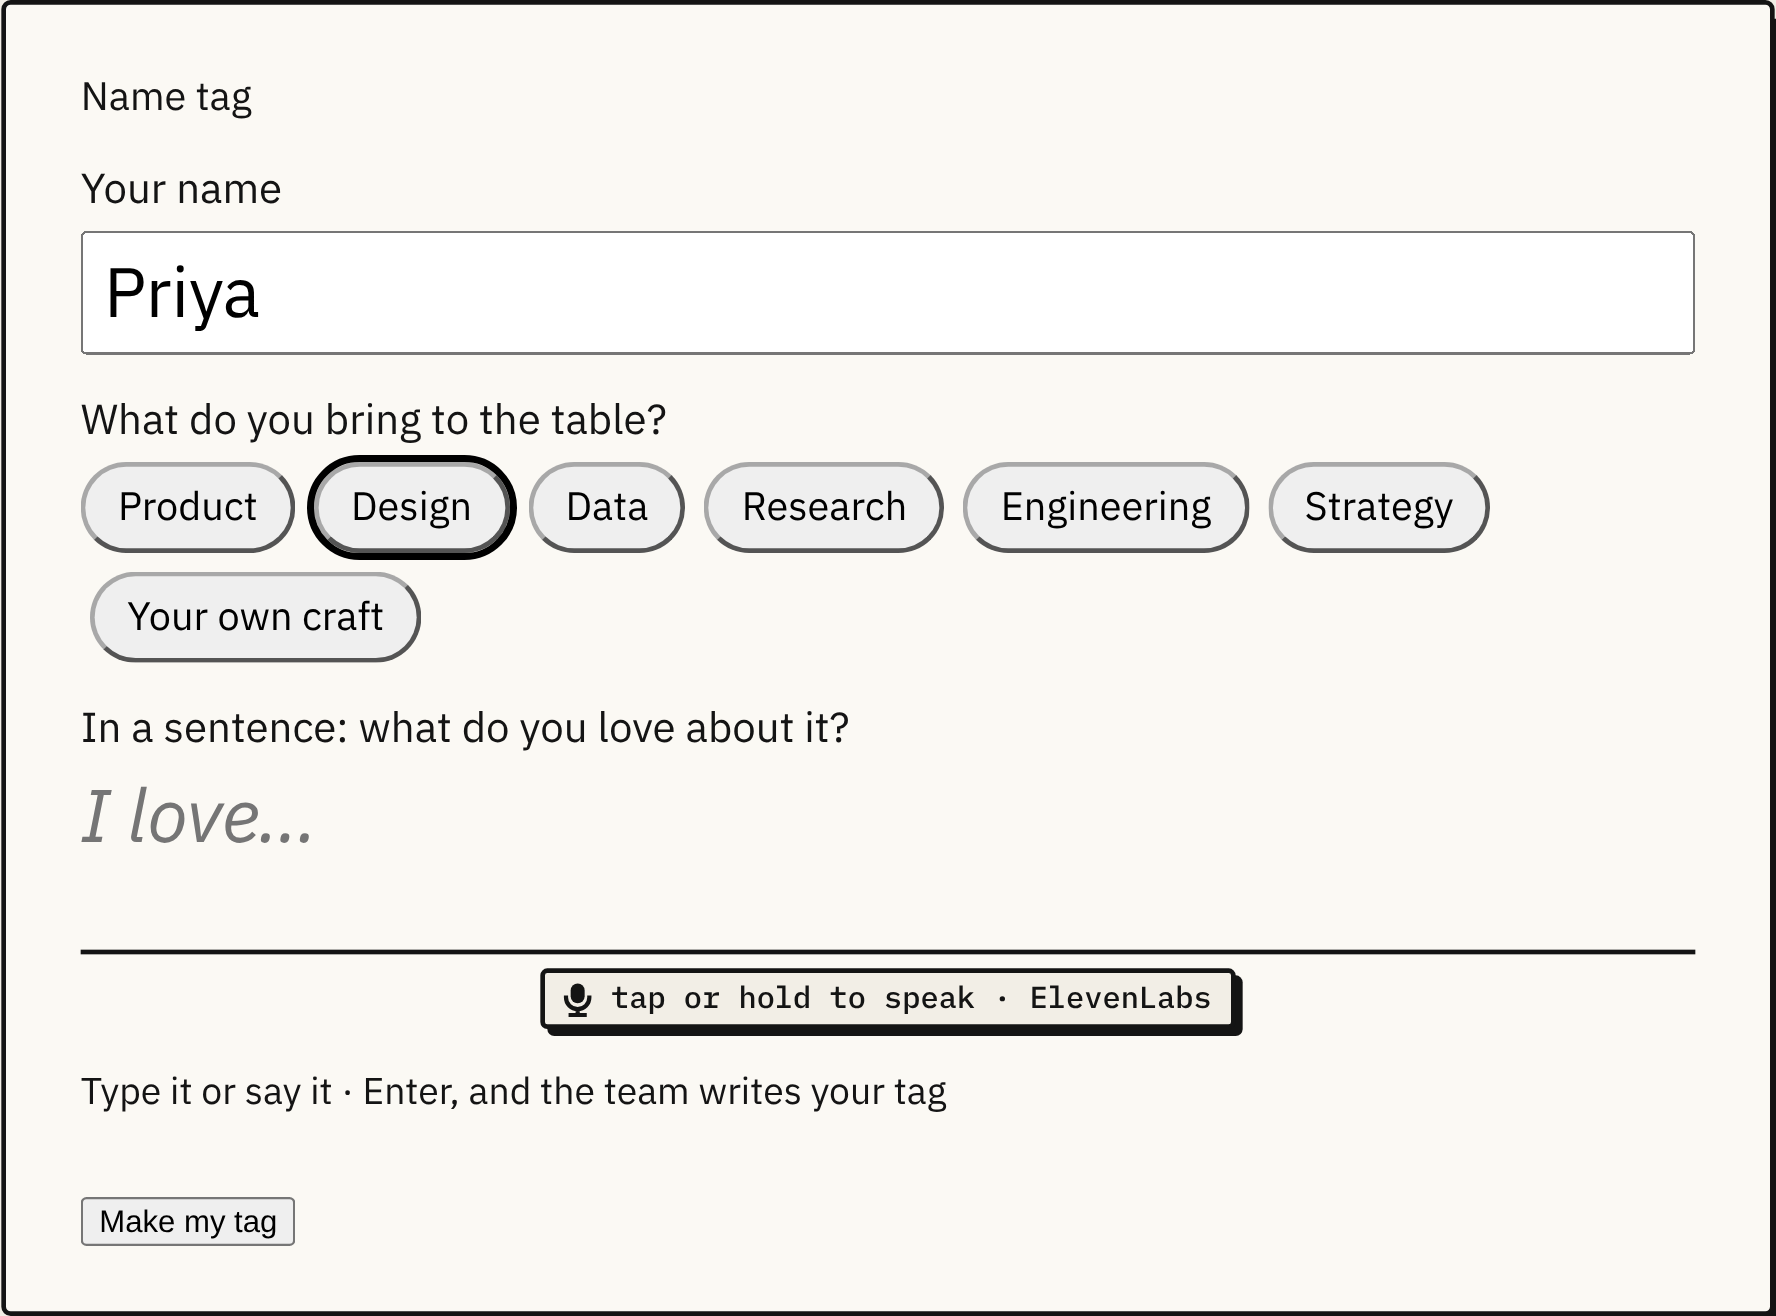
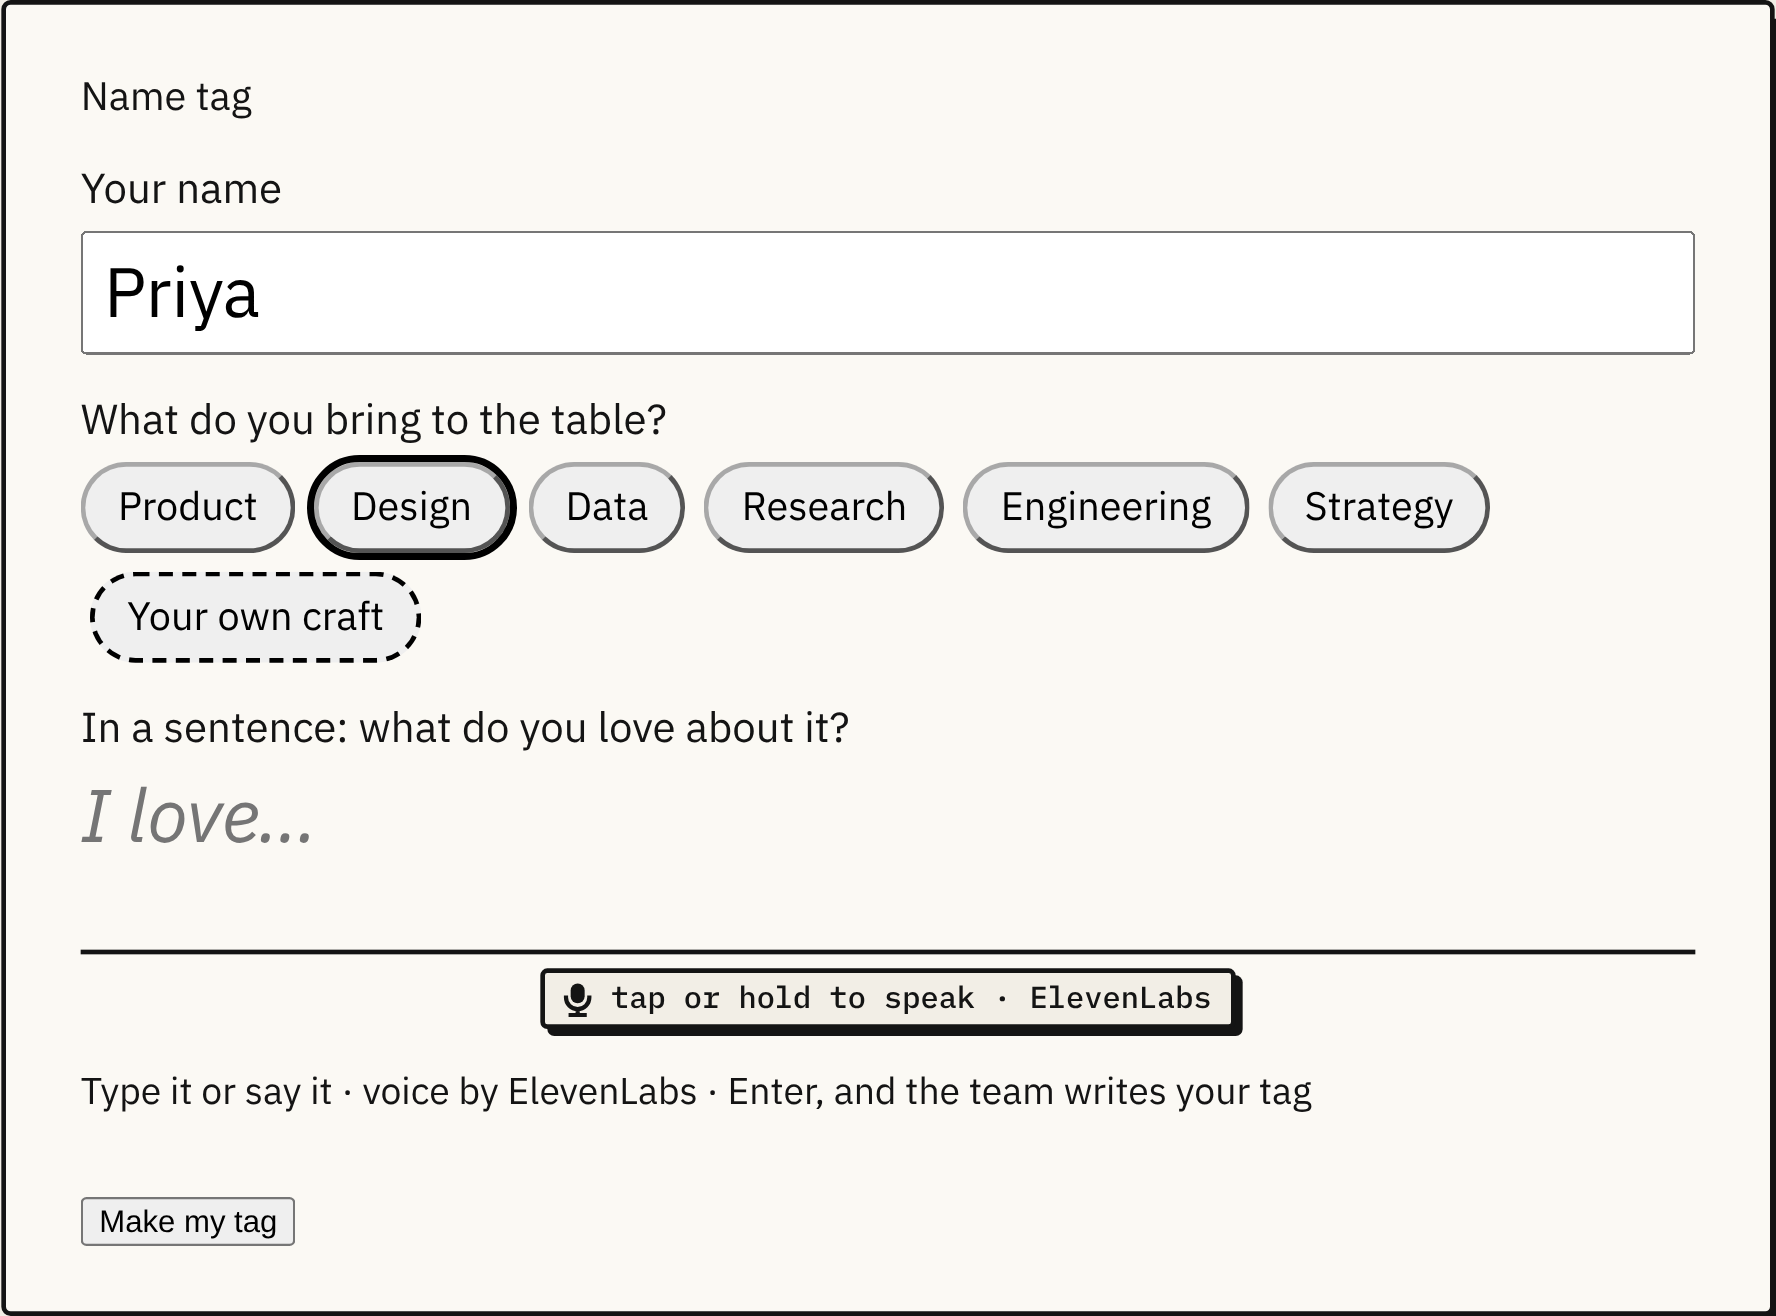
Any seat: 'Your own craft' gets a dashed border in the plain look (design lead: the something-else option)
Claude-Session: https://claude.ai/code/session_013ka3w2xde49cL4JtAk4Poa

Changed region(s): [[0.1858, 0.81, 0.7432, 0.8412], [0.0619, 0.4985, 0.2168, 0.5296], [0.2168, 0.4362, 0.2477, 0.4985]]

diff --git a/public/room.css b/public/room.css
@@ -516,7 +516,7 @@ html:not(.painted-on) .idea-card .idea-make { font: inherit; font-size: 18px; pa
 .nt-name { font: inherit; font-size: 30px; padding: 4px 8px; }
 .pick-options { display: flex; flex-wrap: wrap; gap: 8px; } /* any seat: one compact chip row, Product preselected */
 .pick-option { flex: 0 0 auto; font: inherit; font-size: 17px; padding: 6px 14px; border-radius: 999px; white-space: nowrap; cursor: pointer; }
-.pick-option[data-seat="craft"] { margin-left: 4px; }
+.pick-option[data-seat="craft"] { margin-left: 4px; border-style: dashed !important; } /* "something else", not a seventh seat (design lead) */
 .pick-option[aria-pressed="true"] { outline: 3px solid currentColor; }
 .nt-love { width: 100%; }
 .nt-hint { font-size: 16px; }
